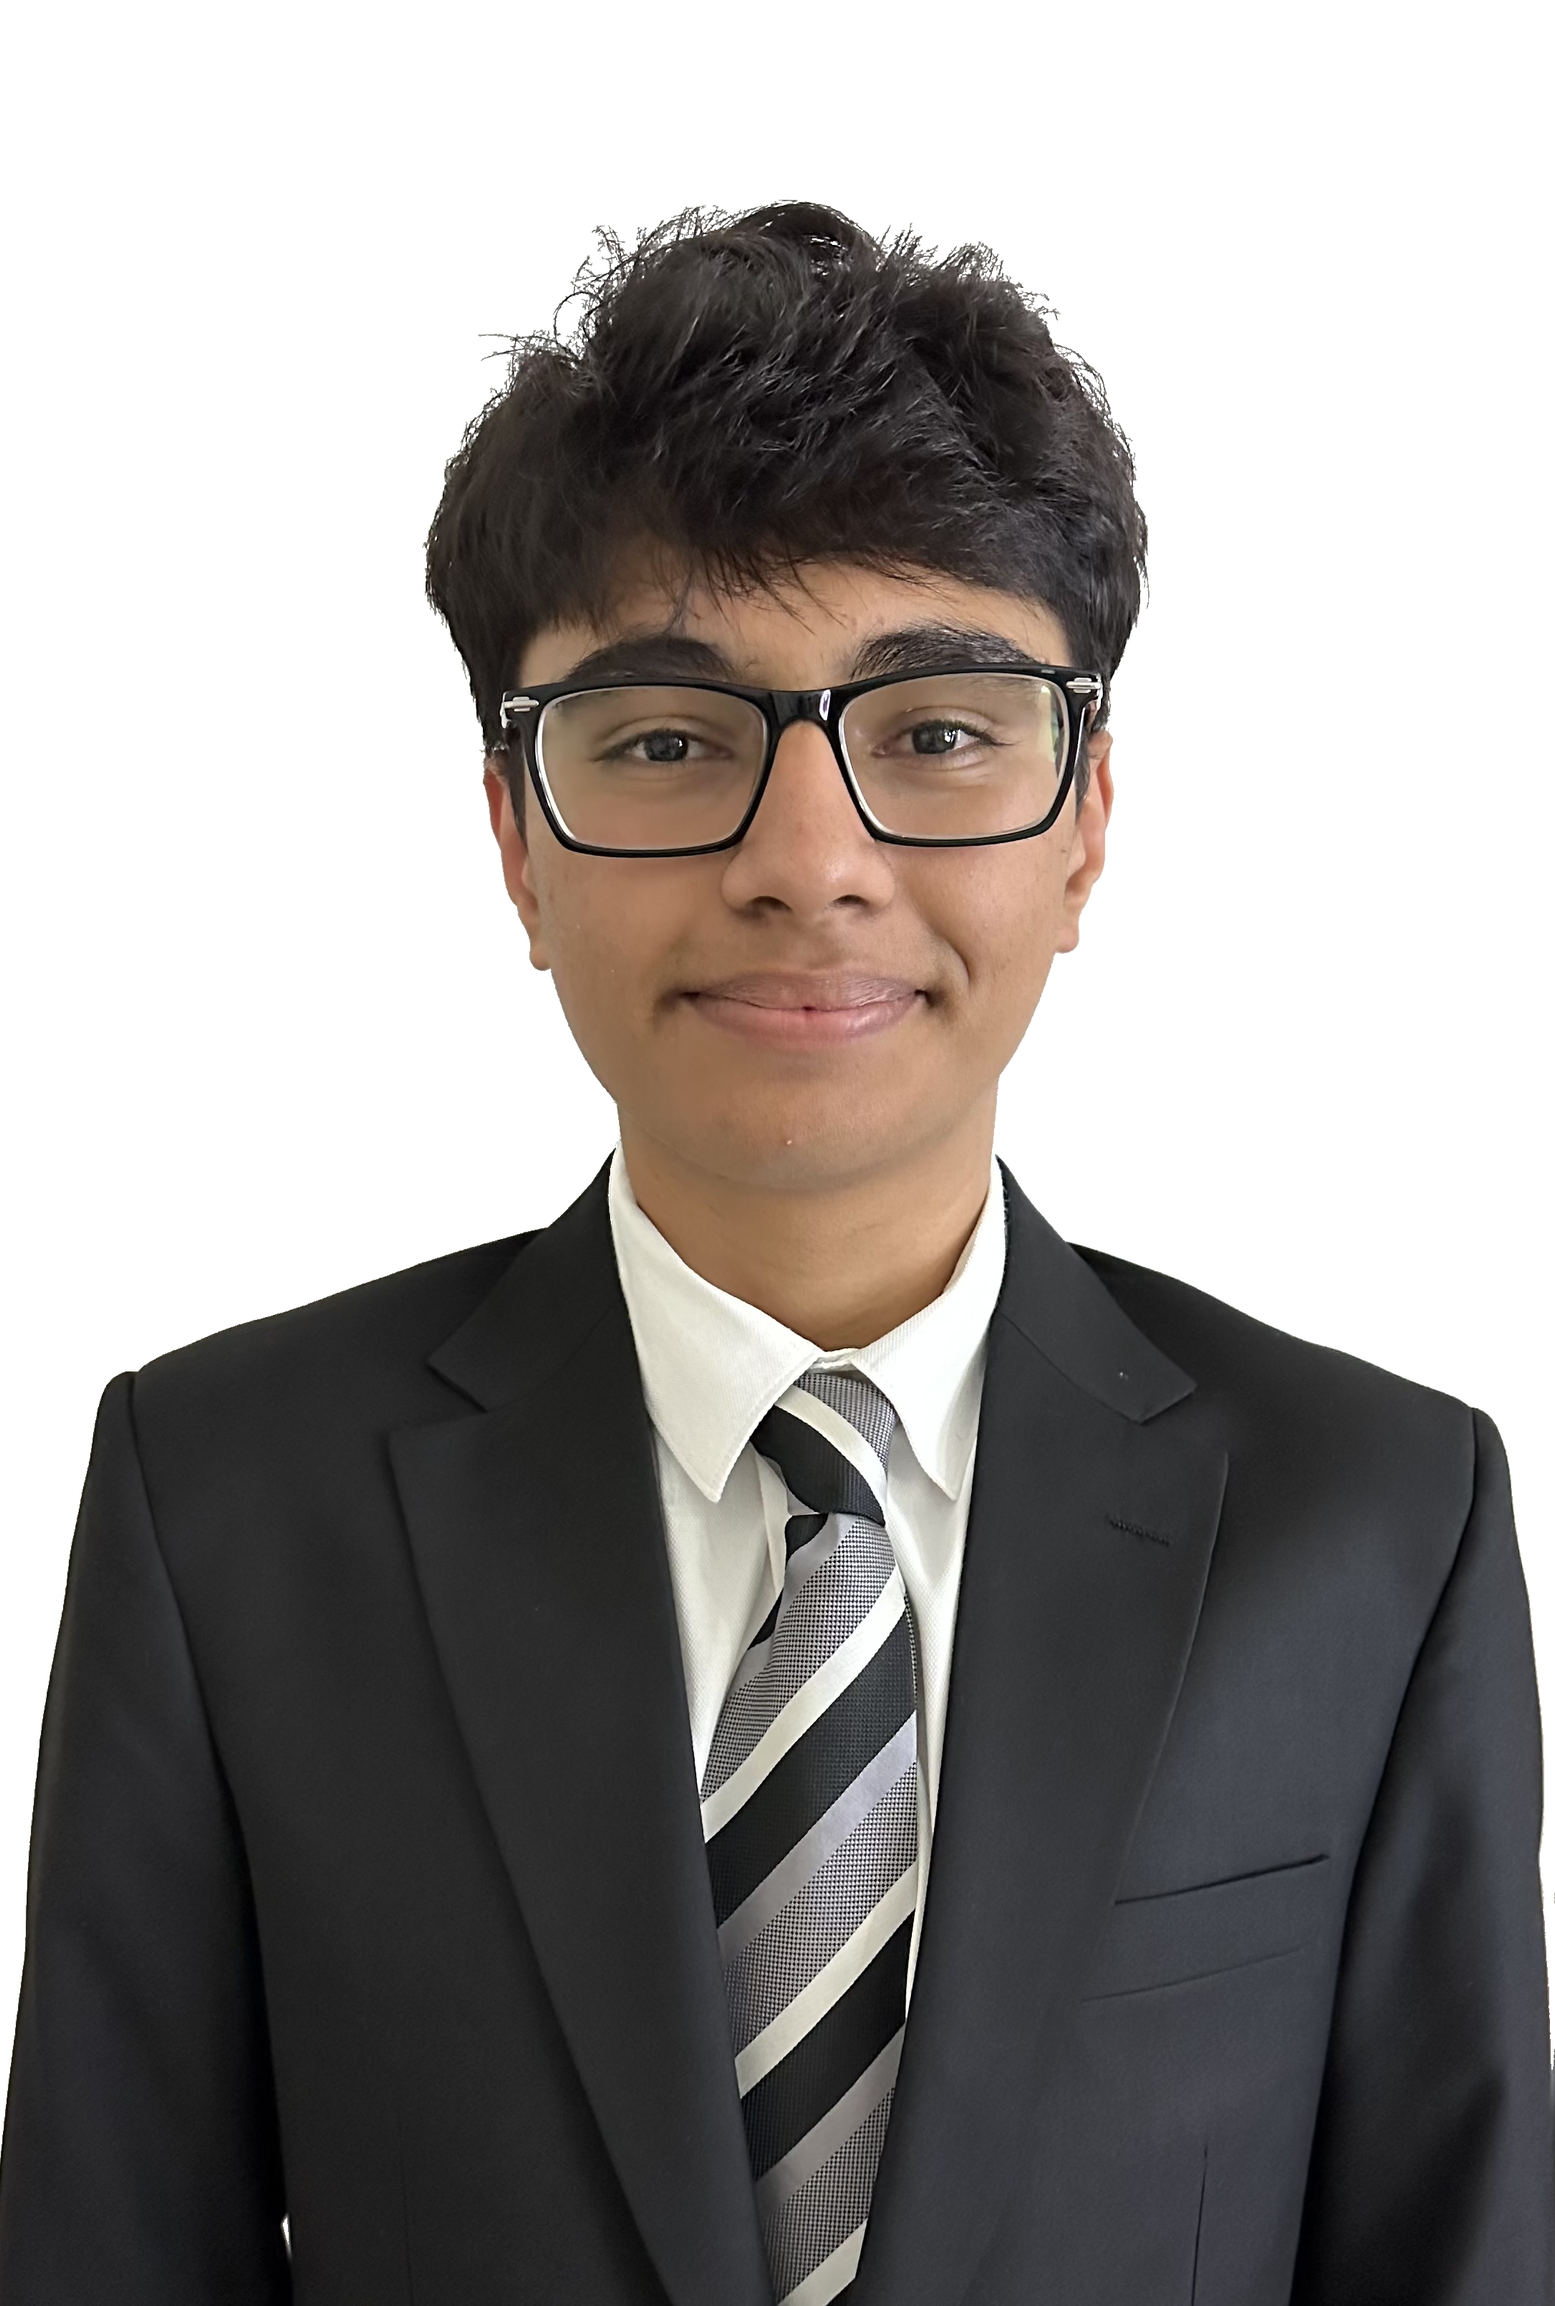
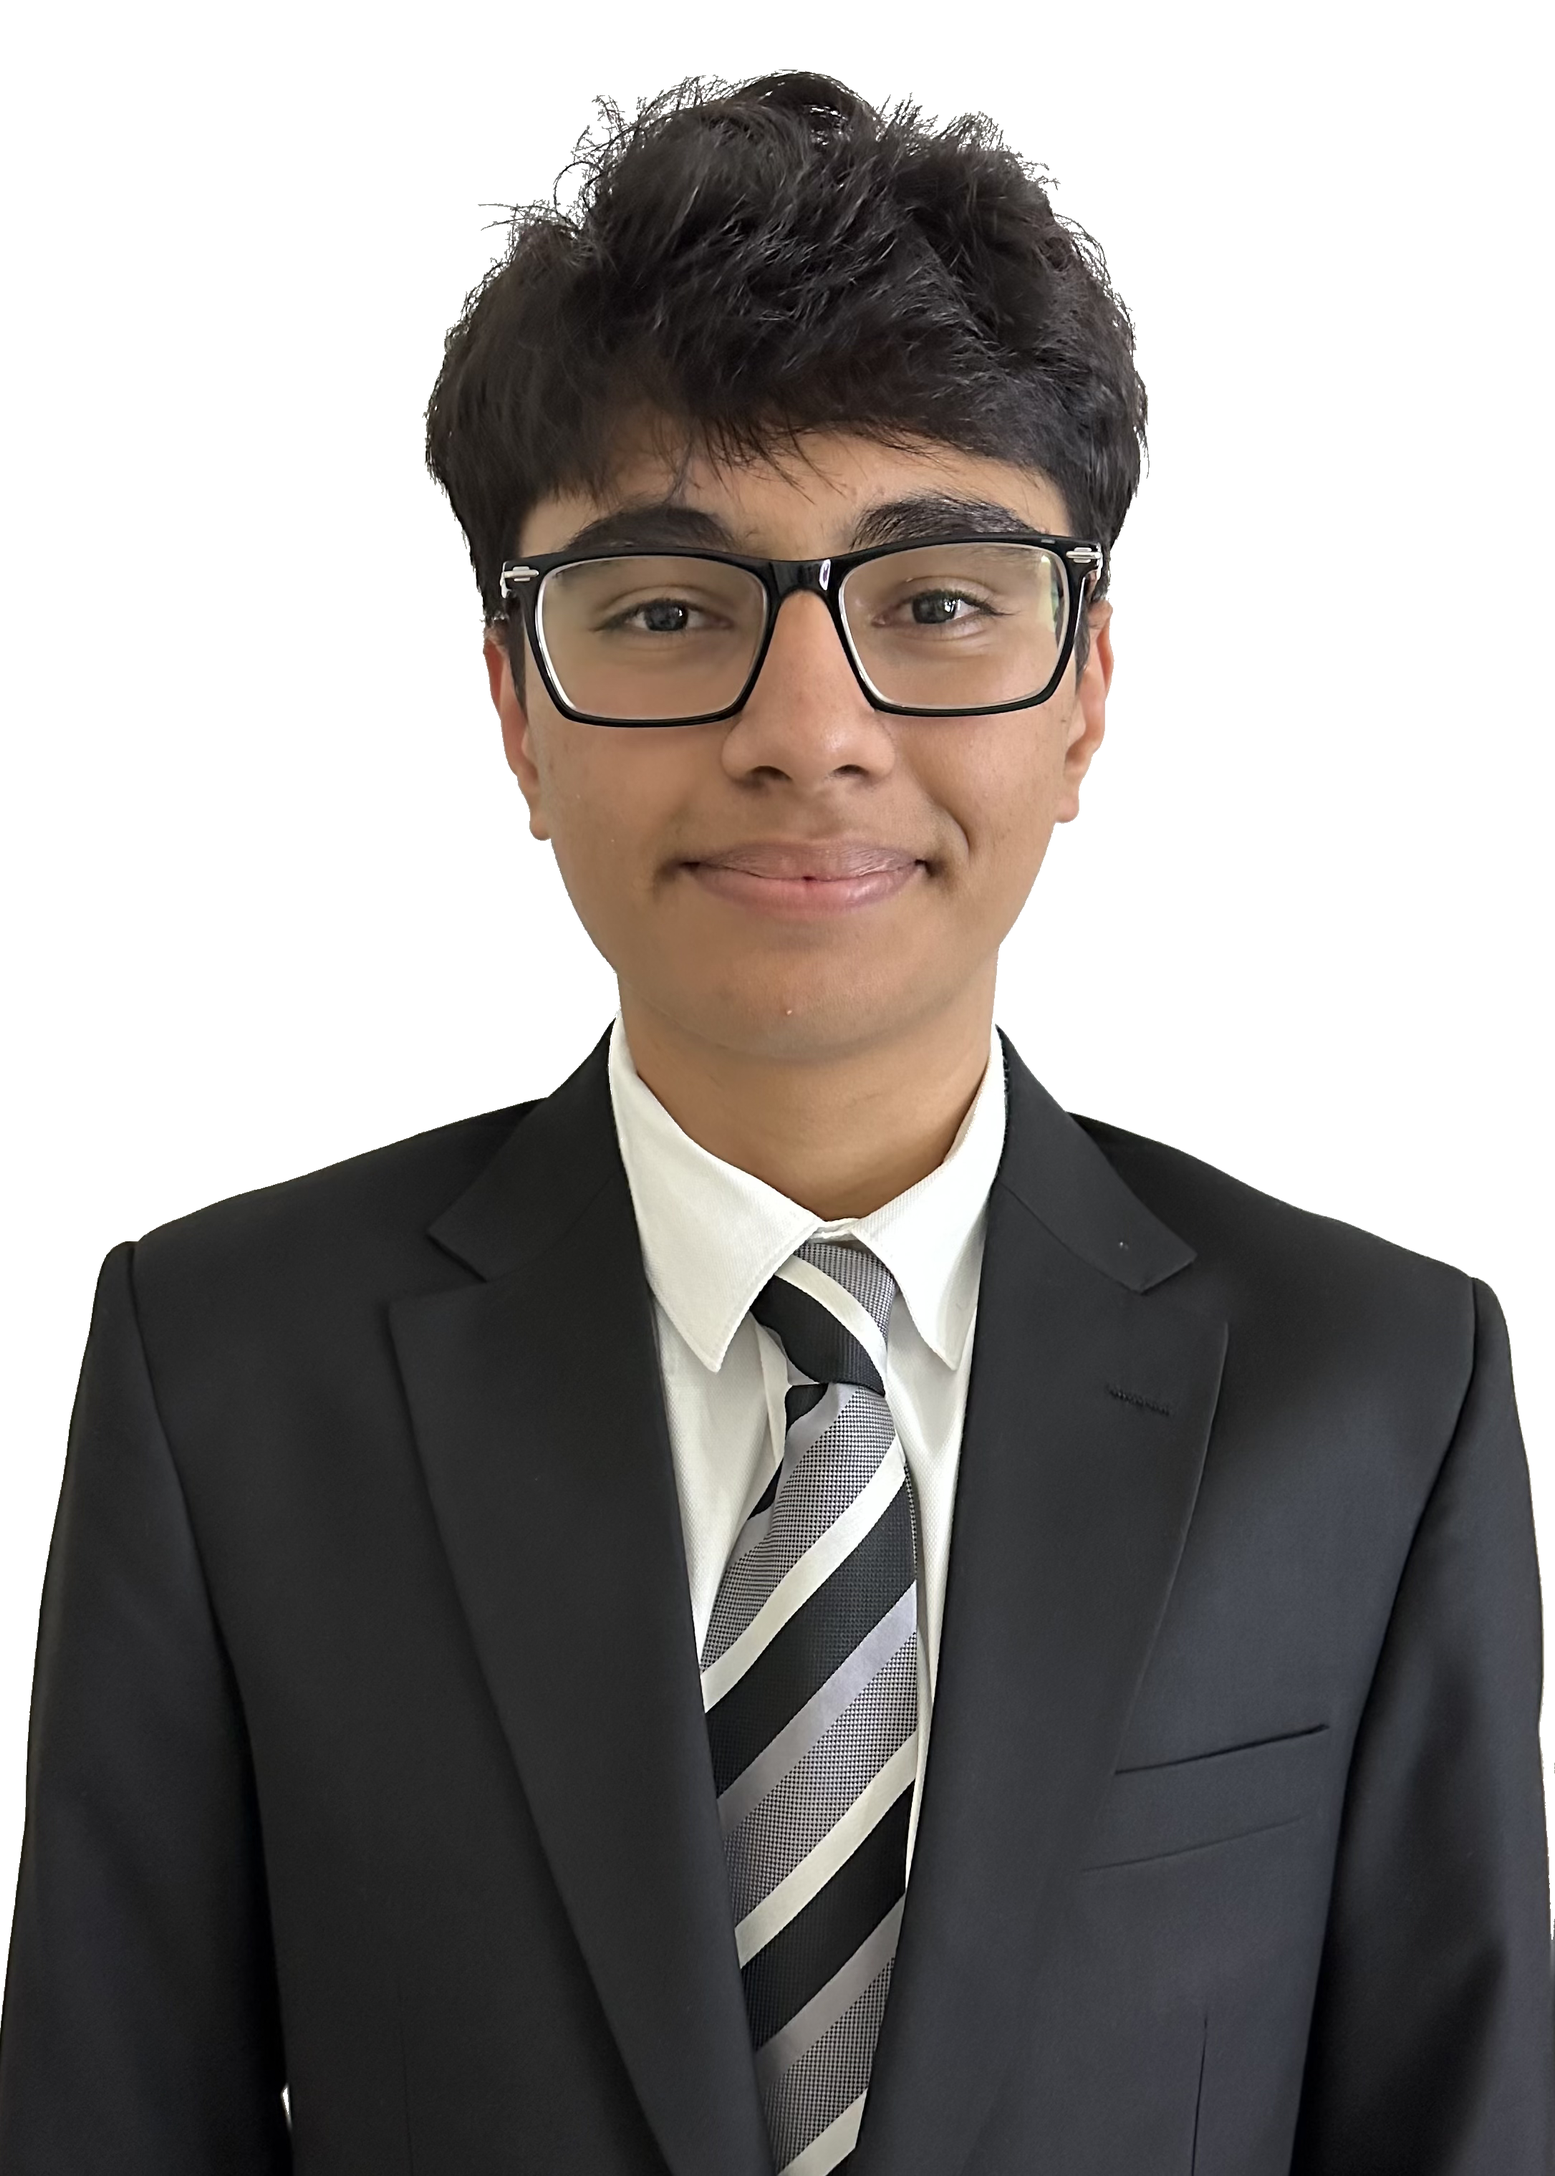
added almost all photos (very shit btw)

diff --git a/lib/links.ts b/lib/links.ts
@@ -129,8 +129,7 @@ export const councils: CouncilLink[] = [
 			alt: "United Nations Security Council Logo",
 		},
 		topics: [
-			"Addressing Sino-Indian Aggressions",
-			"Efforts to Rid the World of Weapons of Mass Destruction Including Nuclear Weapons",
+			"To be released",
 		],
 		bgs: [
 			{
@@ -415,7 +414,7 @@ export const teamLinks: TeamLink[] = [
 				src: "/teams/rudra.png",
 			},
 			{
-				name: "Kushagra",
+				name: "Kushagra Vashishth",
 				pos: "Head of Research & Development",
 				src: "/teams/kushagra.png",
 			},
@@ -458,7 +457,7 @@ export const teamLinks: TeamLink[] = [
 			{
 				name: "Vaidehi Pramod",
 				pos: "Head of Design & Decoration",
-				src: "/teams/placeholder.png",
+				src: "/teams/vaidehi.png",
 			},
 			{
 				name: "Krishang Mayur",
@@ -473,7 +472,7 @@ export const teamLinks: TeamLink[] = [
 			{
 				name: "Asmi Amit Vanare",
 				pos: "Member",
-				src: "/teams/placeholder.png",
+				src: "/teams/asmi.png",
 			},
 		],
 	},
@@ -523,10 +522,25 @@ export const teamLinks: TeamLink[] = [
 				pos: "Member",
 				src: "/teams/ridhima.png",
 			},
+			{
+				name: "Hadassah Crystaline",
+				pos: "Member",
+				src: "/teams/hadassah.png",
+			},
+			{
+				name: "Diya Rajiv",
+				pos: "Member",
+				src: "/teams/diya.png",
+			},
+			{
+				name: "Dune Mary Johnson",
+				pos: "Member",
+				src: "/teams/dune.png",
+			},
 		],
 	},
 	{
-		title: "Media & PR",
+		title: "Media",
 		href: "/team#press",
 		icon: { src: "/teams/press.png", alt: "" },
 		id: "press",
@@ -542,45 +556,40 @@ export const teamLinks: TeamLink[] = [
 				src: "/teams/gayatri.png",
 			},
 			{
-				name: "Diyashree Dinesh",
+				name: "Dhiyashree Dhinesh",
 				pos: "Member",
 				src: "/teams/dhiyashree.png",
 			},
 			{
-				name: "Arya Chaudhary",
+				name: "Devansh V Sharma",
 				pos: "Member",
-				src: "/teams/arya.png",
+				src: "/teams/placeholder.png",
 			},
 		],
 	},
-/*	{
+	{
 		title: "Press",
 		href: "/team#media",
 		icon: { src: "/teams/media.png", alt: "" },
 		id: "media",
 		members: [
 			{
-				name: "To be announced",
-				pos: "To be announced",
-				src: "/teams/placeholder.png",
+				name: "Arya Chaudhary",
+				pos: "Head of Press",
+				src: "/teams/arya.png",
 			},
 			{
-				name: "To be announced",
-				pos: "To be announced",
-				src: "/teams/placeholder.png",
+				name: "Barani Balaji",
+				pos: "Member",
+				src: "/teams/barani.png",
 			},
 			{
-				name: "To be announced",
-				pos: "To be announced",
-				src: "/teams/placeholder.png",
-			},
-			{
-				name: "To be announced",
-				pos: "To be announced",
-				src: "/teams/placeholder.png",
+				name: "Prisha Raghuram",
+				pos: "Member",
+				src: "/teams/prisha.png",
 			},
 		],
-	}, */
+	}, 
 	{
 		title: "Research & Development",
 		href: "/team#rnd",
@@ -626,7 +635,7 @@ export const teamLinks: TeamLink[] = [
 			{
 				name: "Dhruvi Karia",
 				pos: "Head of Finance",
-				src: "/teams/placeholder.png",
+				src: "/teams/dhruvi.png",
 			},
 			{
 				name: "Ashi Bhatt",
@@ -641,7 +650,7 @@ export const teamLinks: TeamLink[] = [
 			{
 				name: "Mohammed Omar",
 				pos: "Member",
-				src: "/teams/placeholder.png",
+				src: "/teams/omar.png",
 			},
 		],
 	},

diff --git a/app/register/page.tsx b/app/register/page.tsx
@@ -73,27 +73,16 @@ function RegisterPage() {
 							opacity: 0.8,
 						})}
 					>
-						NMS applicants are kindly requested to complete their application
-						process by filling out the Google Form. Additionally, it is
-						essential to print the provided consent form, carefully fill it with
-						the required information, and subsequently submit the signed consent
-						form, accompanied by a payment of 20 BHD, to their respective HRT.
-						Your adherence to this procedure ensures a seamless application
-						process.
+						NMS applicants are kindly requested to complete their application 
+						process by filling out the Google Form. Additionally, it is 
+						essential to print your google form response accompanied by a 
+						payment of 20 BHD, to their respective HRT. Your adherence to 
+						this procedure ensures a seamless application process.
 					</Paragraph>
-					<Animate animation={onScrollAnimation(av.FromLeft)}>
-						<Button
-							href="https://drive.google.com/file/d/1PGiSj_jH86DUrttfOQTucsJfcVZYUYV5/view"
-							className="mt-6 mb-12 justify-start"
-							animation
-							target="_blank"
-							disabled
-						>
-							Consent Form in the works
-						</Button>
-					</Animate>
 
-					<SubHeading animation={onScrollAnimation(av.FromLeft)}>
+					<SubHeading 
+						className="mt-4"
+						animation={onScrollAnimation(av.FromLeft)}>
 						Non-NMS Applicants
 					</SubHeading>
 					<Paragraph
@@ -314,17 +303,7 @@ function RegisterPage() {
 							className="mt-12"
 							animation
 						>
-							Applications for NMS Students
-						</Button>
-					</Animate>
-					<Animate animation={onScrollAnimation(av.FromLeft)}>
-						<Button
-							href="https://forms.gle/U89v8mHjhTgddzc87"
-							className="mt-12"
-							animation
-							disabled
-						>
-							Application to be announced
+							Applications for both NMS and non NMS Students
 						</Button>
 					</Animate>
 				</Details>

diff --git a/app/info/page.tsx b/app/info/page.tsx
@@ -99,7 +99,7 @@ function InfoPage() {
 							target="_blank"
 							disabled
 						>
-							Allocations Doc
+							Coming soon
 						</Button>
 
 						<Button
@@ -109,7 +109,7 @@ function InfoPage() {
 							target="_blank"
 							disabled
 						>
-							Security & Runner Allocations
+							Coming soon
 						</Button>
 					</motion.div>
 				</Details>
@@ -139,7 +139,7 @@ function InfoPage() {
 							target="_blank"
 							disabled
 						>
-							NMMUN ROP
+							Coming soon
 						</Button>
 
 						<Button
@@ -149,7 +149,7 @@ function InfoPage() {
 							target="_blank"
 							disabled
 						>
-							Crisis ROP
+							Coming soon
 						</Button>
 					</motion.div>
 
@@ -175,7 +175,7 @@ function InfoPage() {
 							target="_blank"
 							disabled
 						>
-							Code of Conduct
+							Coming soon
 						</Button>
 					</motion.div>
 				</Details>
